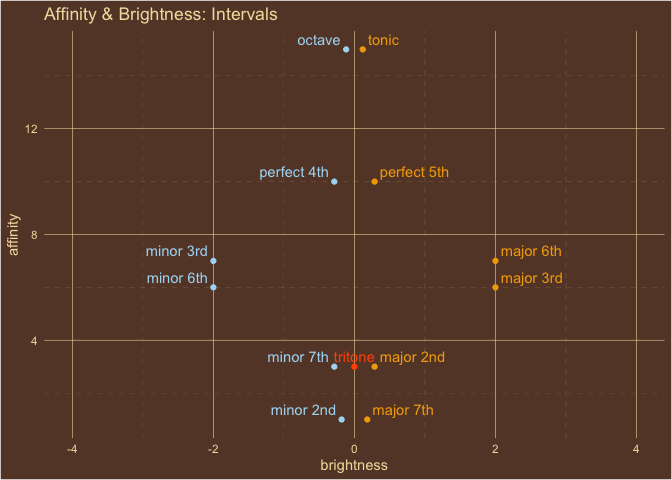
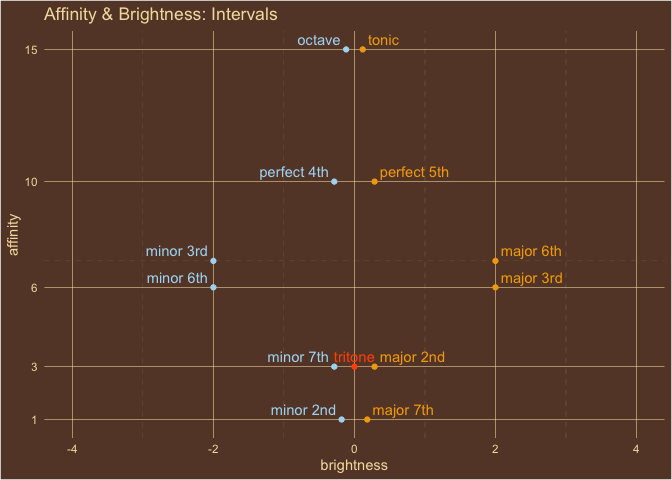
pascal triangle y axis for readme plot

diff --git a/README.md b/README.md
@@ -101,7 +101,7 @@ intervals = list("tonic"=0,"minor 2nd"=1,"major 2nd"=2,"minor 3rd"=3,
                  "major 3rd"=4,"perfect 4th"=5,"tritone"=6,"perfect 5th"=7,
                  "minor 6th"=8, "major 6th"=9,"minor 7th"=10,"major 7th"=11,
                  "octave"=12)
-homey_plot_harmony(intervals,home=0,c("brightness","affinity"),title = title)
+homey_plot_harmony(intervals,home=0,c("brightness","affinity"),title=title,pascal_triangle=TRUE)
 ```
 
 <img src="man/figures/README-intervals_affinity_brightness-1.png" width="100%" />
